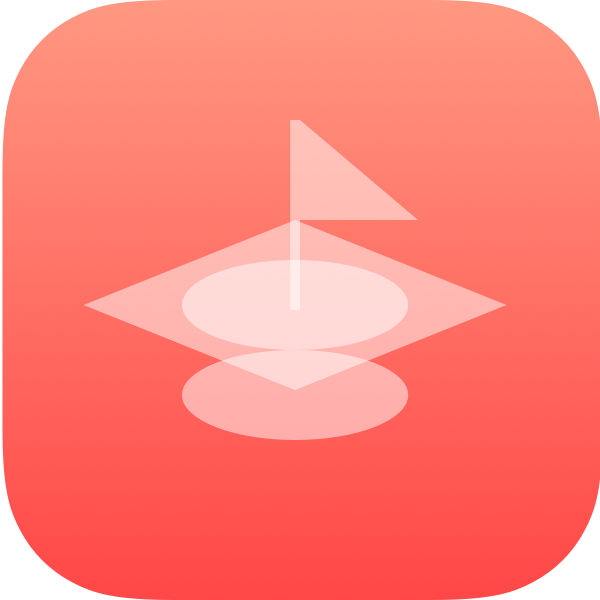
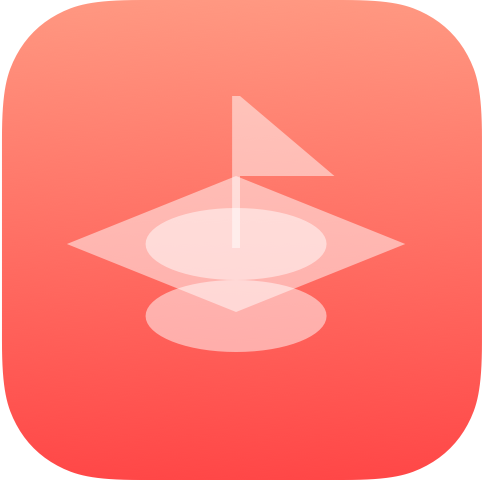
Pioneers added overview and contents section links

diff --git a/pioneers.html b/pioneers.html
@@ -53,13 +53,59 @@
 
 				<p>As "pioneers" in their own right, first-generation college students often face unique challenges in their college lives. Through an iterative user-centered design process, I designed, prototyped, and tested Pioneers, a mobile app that helps first-gen students to network with and seek mentorship from first-gen alumni and upperclassmen.</p>
 
+
+				<div class="grid-row-70-30">
+					<div class="content1">
+						<h3>My Role</h3>
+						<p>
+							<ul>
+								<li>Built the entire high-fidelity prototype</li>
+								<li>Created most of the low-fidelity and paper wireframes</li>
+								<li>Took charge of all visual design</li>
+								<li>Conducted user research and usability testing at multiple stages of the project</li>
+							</ul>
+						</p>
+
+
+
+					</div>
+
+					<div class="content2">
+						<h3>Team Members</h3>
+						<p>
+							Jesse Wu
+							<br>Natasha Rojas
+							<br>Lu Yang
+							<br>Wenchang Yang
+							<br>Diane Tarira
+							<br>Cynthia Zhu
+						</p>
+					</div>
+				</div>
+
+
+				<h3>Jump To Section</h3>
+
+				<h4><a class="anchor-link" href="#anchor1">Process Summary</a></h4>
+				<h4><a class="anchor-link" href="#anchor2">The General Problem Space</a></h4>
+				<h4><a class="anchor-link" href="#anchor3">Interviewing Users</a></h4>
+				<h4><a class="anchor-link" href="#anchor4">Narrowing Down The Problem Space</a></h4>
+				<h4><a class="anchor-link" href="#anchor5">The Design Process</a></h4>
+				<h4><a class="anchor-link" href="#anchor6">Final Prototype</a></h4>
+
 			</div>
+
+			
+
+			<a id="anchor1"></a>
 
 			<div class="section-divider">
 
 				<hr>
 
 			</div>
+
+			
 
 			<div class ="project-page-prose">
 
@@ -84,6 +130,12 @@
 			</div>
 
 
+
+
+
+			
+
+			<a id="anchor2"></a>
 
 			<div class="section-divider">
 				<hr>
@@ -112,6 +164,10 @@
 			</div>
 
 			
+			
+
+			<a id="anchor3"></a>
+
 			<div class="section-divider">
 				<hr>
 			</div>
@@ -144,6 +200,10 @@
 				<p>There is a divide between school and family life. Students had problems communicating with their parents and other family members regarding college matters. There is an asynchrony between their parents' view of their college life and their own.</p>
 
 			</div>
+
+			
+
+			<a id="anchor4"></a>
 
 			<div class="section-divider">
 				<hr>
@@ -194,6 +254,10 @@
 
 			</div>
 
+
+			
+
+			<a id="anchor5"></a>
 
 			<div class="section-divider">
 				<hr>
@@ -248,7 +312,7 @@
 
 			</div>
 
-			<div class="image-grid-3-1">
+			<div class="image-grid-3">
 
 				<div class="project-page-image">
 
@@ -508,6 +572,10 @@
 
 
 
+			
+
+			<a id="anchor6"></a>
+
 			<div class="section-divider">
 
 				<hr>
@@ -526,9 +594,10 @@
 			<div class="spacer"></div>
 
 			<p class="caption"><i>Try it out by clicking the app icon below!</i></p>
-			<div class="project-page-image app-icon">
+
+			<div class="project-page-image width-limiter-150">
 				<a target="_blank" href="https://invis.io/7YGJIJ5DWHF">
-					<img src="images/pioneers/pioneers-app-icon.png">
+					<img class="app-icon" src="images/pioneers/pioneers-app-icon.svg">
 				</a>
 				<h3 class="caption">Pioneers</h3>
 			</div>
@@ -634,7 +703,7 @@
 			</div>
 
 
-			<div class="wide-limiter image-grid-3-2">
+			<div class="wide-limiter image-grid-3">
 
 				
 

diff --git a/css/style.css b/css/style.css
@@ -213,7 +213,7 @@ hr {
 
 .section-divider {
 	margin: auto;
-	margin-top: 200px;
+	margin-top: 125px;
 	margin-bottom: 70px;
 	max-width: 850px;
 }
@@ -366,6 +366,7 @@ hr {
 
 
 
+
 /* Index Cards */
 
 .card {
@@ -485,6 +486,8 @@ hr {
 	width: 100%;
 }
 
+
+
 .narrower-limiter {
 	width: 100%;
 	max-width: 450px;
@@ -515,6 +518,20 @@ hr {
 	margin: 0 auto;
 }
 
+
+.width-limiter-150 {
+	width: 50%;
+	max-width: 150px;
+}
+
+.width-limiter-25 {
+	width: 20%;
+	max-width: 25px;
+}
+
+
+
+
 .border-single {
 	border: 1px solid #cccccc;
 	padding: 0px;
@@ -540,36 +557,51 @@ hr {
 
 
 
-.grid-item {
+.image-grid-3 {
+	display: grid;
 	margin: 0 auto;
+	grid-template-columns: repeat(3, 1fr);
+	grid-row-gap: 10px;
+	grid-column-gap: 10px;
+	margin-bottom: 200px;
 }
+
+
+.grid-row-70-30 {
+	display: grid;
+	grid-template-columns: 60% 25%;
+	grid-column-gap: 15%;
+}
+
 
 .grid-item img {
 	width: 100%;
 }
 
-.image-grid-3-1 {
-	display: grid;
-	margin: 0 auto;
-	grid-template-columns: repeat(3, 1fr);
-	grid-row-gap: 10px;
-	grid-column-gap: 10px;
-	margin-bottom: 200px;
-}
+.grid-item-1-2 {
 
-.image-grid-3-2 {
-	display: grid;
-	margin: 0 auto;
-	grid-template-columns: repeat(3, 1fr);
-	grid-row-gap: 10px;
-	grid-column-gap: 10px;
-	margin-bottom: 200px;
 }
 
 
-.app-icon {
-	width: 50%;
-	max-width: 150px;
+
+
+
+
+
+
+
+.app-icon:hover {
+	/*box-shadow: 0 14px 28px rgba(0,0,0,0.25), 0 10px 10px rgba(0,0,0,0.22);*/
+	transform: translate(0, -2px);
+}
+
+
+.anchor-link {
+	color: #18D2AB;
+}
+
+.anchor-link:hover {
+	text-decoration: underline;
 }
 
 
@@ -712,6 +744,8 @@ hr {
 	.image-grid-3-2 {
 		grid-template-columns: repeat(2, 1fr);
 	}
+
+
 
 
 
